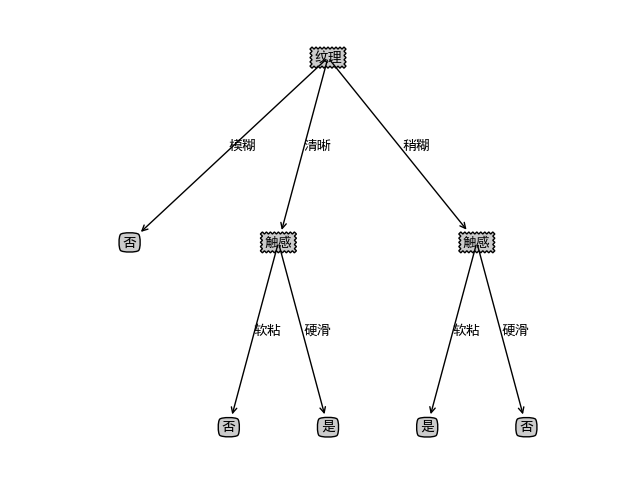
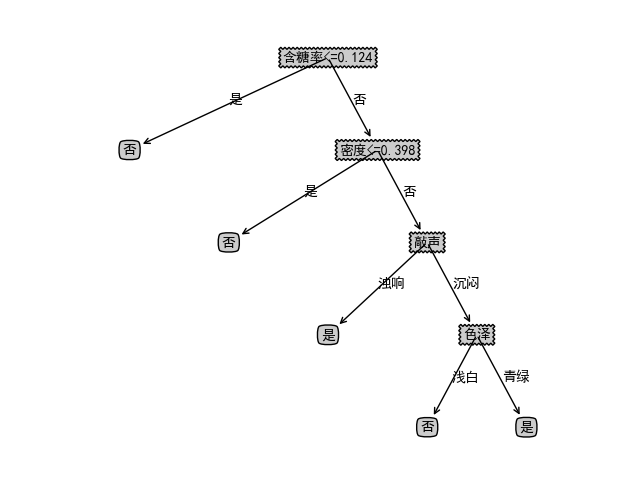
version4

diff --git a/decisionTree/pro/decisionTree.py b/decisionTree/pro/decisionTree.py
@@ -6,6 +6,48 @@ import treePlotter
 import numpy as np
 import re
 
+
+def splitDataSet_for_dec(dataSet, axis, value, small):
+    returnSet = []
+    for featVec in dataSet:
+        if (small and featVec[axis] <= value) or ((not small) and featVec[axis] > value):
+            retVec = featVec[:axis]
+            retVec.extend(featVec[axis + 1:])
+            returnSet.append(retVec)
+    return returnSet
+
+def DataSetPredo(decreteindex):
+    '''
+    预处理函数DataSetPredo，对数据集提前离散化
+    '''
+    dataSet=createDataSet()
+    labels=getlabels()
+    Entropy = calcShannonEnt(dataSet)
+    DataSetlen = len(dataSet)
+    for index in decreteindex:  # 对每一个是连续值的属性下标
+        for i in range(DataSetlen):
+            dataSet[i][index] = float(dataSet[i][index])
+        allvalue = [vec[index] for vec in dataSet]
+        sortedallvalue = sorted(allvalue)
+        T = []
+        for i in range(len(allvalue) - 1):  # 划分点集合
+            T.append(float(sortedallvalue[i] + sortedallvalue[i + 1]) / 2.0)
+        bestGain = 0.0
+        bestpt = -1.0
+        for pt in T:  # 对每个划分点
+            nowent = 0.0
+            for small in range(2):  # 化为正类负类
+                Dt = splitDataSet_for_dec(dataSet, index, pt, small)
+                p = len(Dt) / float(DataSetlen)
+                nowent += p * calcShannonEnt(Dt)
+            if Entropy - nowent > bestGain:
+                bestGain = Entropy - nowent
+                bestpt = pt
+        labels[index] = str(labels[index] + "<=" + "%.3f" % bestpt)
+        for i in range(DataSetlen):
+            dataSet[i][index] = "是" if dataSet[i][index] <= bestpt else "否"
+    return dataSet, labels
+
 def calcShannonEnt(dataSet):
     """
     输入：数据集
@@ -155,6 +197,7 @@ def createTree(dataSet, labels,chooseBestFeatureToSplit):
         myTree[bestFeatLabel][value] = createTree(splitDataSet(dataSet, bestFeat, value), subLabels,chooseBestFeatureToSplit)
     return myTree
 
+
 def classify(inputTree, featLabels, testVec):
     """
     输入：决策树，分类标签，测试数据
@@ -233,7 +276,6 @@ def createDataSet():
     return dataSet
 
 def createTestSet():
-
     f=open(r'testdata.txt','r')
     testSet=[]
     raw=f.readlines()
@@ -242,12 +284,12 @@ def createTestSet():
     return testSet
 
 def main():
-    dataSet= createDataSet()
-    labels=getlabels()
-    labels_tmp = labels[:] # 拷贝，createTree会改变labels
-    #desicionTree = createTree(dataSet, labels_tmp, ID3Split)
+    dataSet,labels= DataSetPredo([6,7])
+    #labels=getlabels()
+    labels_tmp = labels[:]  # 拷贝，createTree会改变labels
+    desicionTree = createTree(dataSet, labels_tmp, ID3Split)
     #desicionTree = createTree(dataSet, labels_tmp, C4_5Split)
-    desicionTree = createTree(dataSet, labels_tmp, CARTSplit)
+    #desicionTree = createTree(dataSet, labels_tmp, CARTSplit)
     print('desicionTree:\n', desicionTree)
     treePlotter.createPlot(desicionTree)
     testSet = createTestSet()

diff --git a/decisionTree/pro/divideData.py b/decisionTree/pro/divideData.py
@@ -1,0 +1,23 @@
+import numpy as np
+
+f1=open(r'watermelon.txt','r')
+#f1=open(r'breast-cancer-wisconsin.data','r')
+f2=open(r'traindata.txt','w')
+f3=open(r'testdata.txt','w')
+
+raw=f1.readlines()
+all=np.arange(len(raw))
+np.random.shuffle(all)
+all=list(all)
+print(all)
+train=int(len(raw)*0.7)
+for i in range(len(raw)):
+    if i < train:
+        f2.write(raw[all[i]])
+    else:
+        f3.write(raw[all[i]])
+
+f1.close()
+f2.close()
+f3.close()
+
